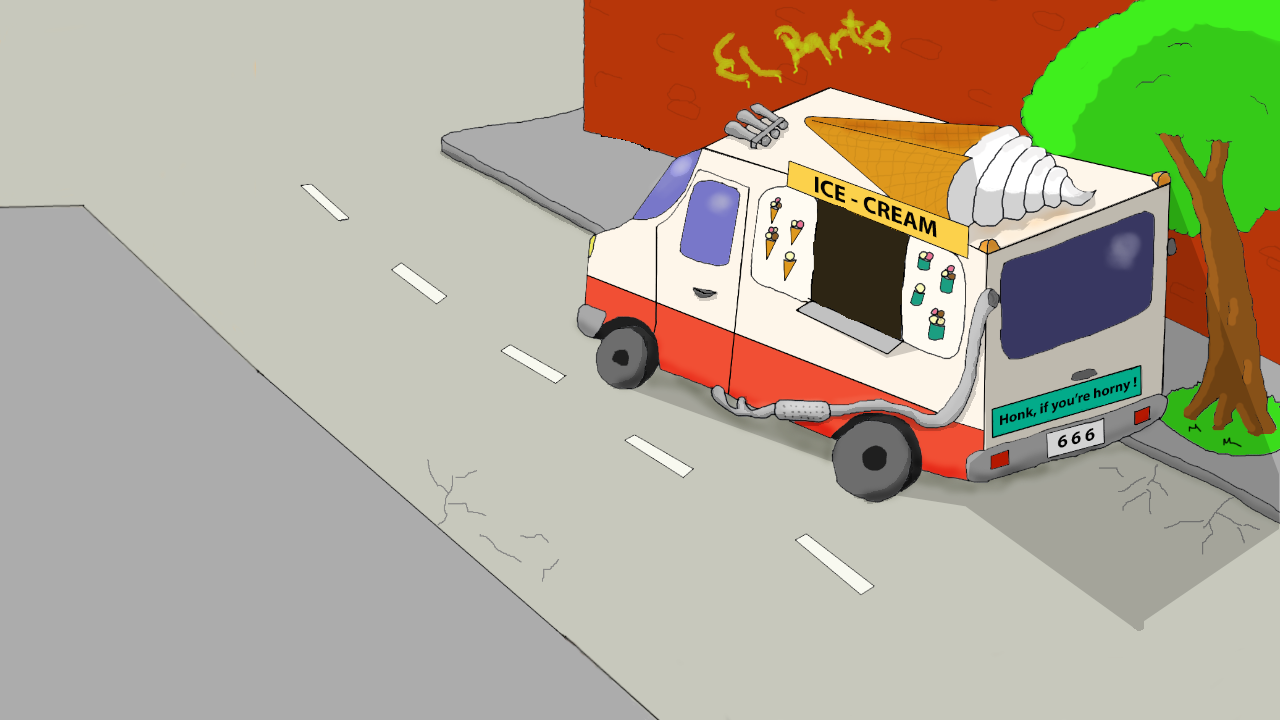
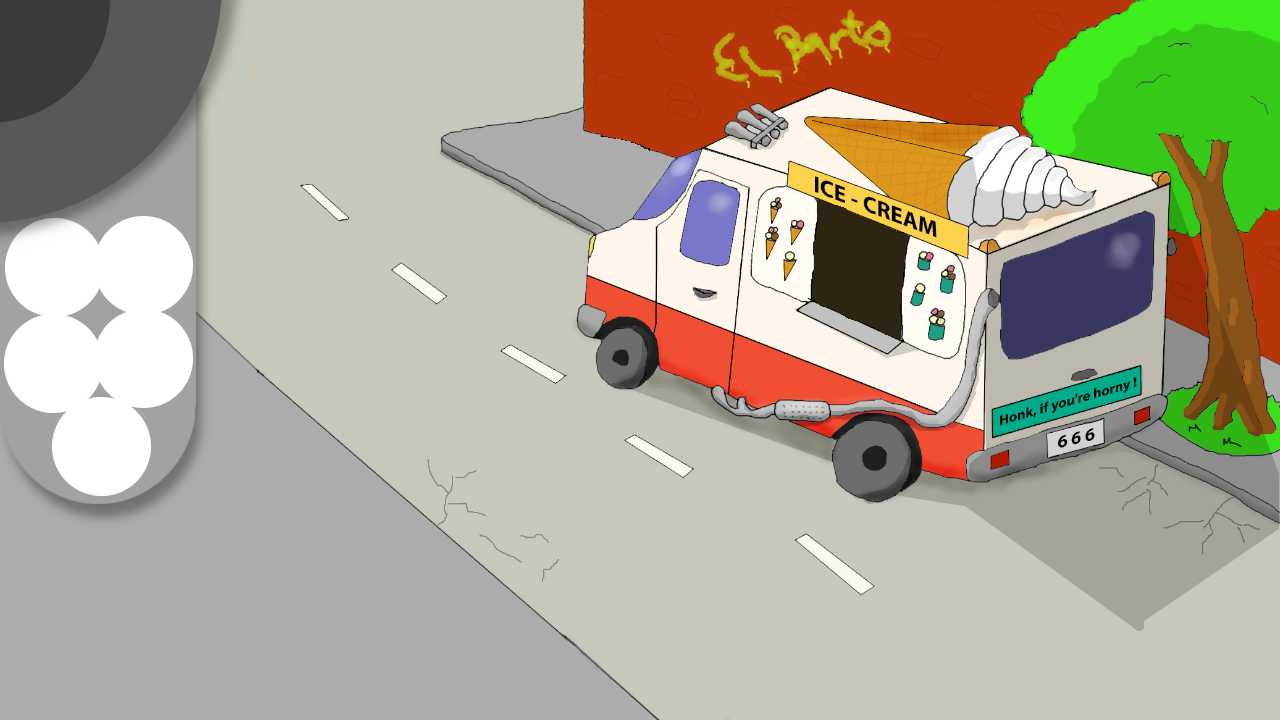
Neue Menüs für Widescreen und Inventar anpassungen. Viele Kleinigkeiten....

Changed region(s): [[0.0, 0.0, 0.1875, 0.7333]]

diff --git a/core/src/main/kotlin/org/wanne/game/screens/AbstractWalkableScreen.kt b/core/src/main/kotlin/org/wanne/game/screens/AbstractWalkableScreen.kt
@@ -100,7 +100,7 @@ abstract class AbstractWalkableScreen(
         lookButton = UiButtonBuilder()
             .withTexture(buttonAtlas.createSprite("Ansehen"))
             .withTexturePressed(buttonAtlas.createSprite("AnsehenPressed"))
-            .withPoint(game.choose(Point(5F, 45F), Point(120F, 630F)))
+            .withPoint(game.choose(Point(5F, 45F), Point(130F, 640F)))
             .withTooltip(TextTooltip(game.choose("ansehen", "look at"), game.currentSkin()))
             .withScale(0.1F, 0.1F)
             .useScaling(!game.classicMode())
@@ -121,7 +121,7 @@ abstract class AbstractWalkableScreen(
         speakButton = UiButtonBuilder()
             .withTexture(buttonAtlas.createSprite("Reden"))
             .withTexturePressed(buttonAtlas.createSprite("RedenPressed"))
-            .withPoint(game.choose(Point(65F, 45F), Point(120F, 530F)))
+            .withPoint(game.choose(Point(65F, 45F), Point(80F, 565F)))
             .withTooltip(TextTooltip(game.choose("ansprechen", "speak to"), game.currentSkin()))
             .useScaling(!game.classicMode())
             .build()
@@ -141,7 +141,7 @@ abstract class AbstractWalkableScreen(
         takeButton = UiButtonBuilder()
             .withTexture(buttonAtlas.createSprite("Nehmen"))
             .withTexturePressed(buttonAtlas.createSprite("NehmenPressed"))
-            .withPoint(game.choose(Point(120F, 45F), Point(30F, 530F)))
+            .withPoint(game.choose(Point(120F, 45F), Point(10F, 520F)))
             .withTooltip(TextTooltip(game.choose("aufnehmen", "take"), game.currentSkin()))
             .useScaling(!game.classicMode())
             .build()
@@ -161,7 +161,7 @@ abstract class AbstractWalkableScreen(
         useButton = UiButtonBuilder()
             .withTexture(buttonAtlas.createSprite("Benutzen"))
             .withTexturePressed(buttonAtlas.createSprite("BenutzenPressed"))
-            .withPoint(game.choose(Point(180F, 45F), Point(30F, 430F)))
+            .withPoint(game.choose(Point(180F, 45F), Point(80F, 565F)))
             .withTooltip(TextTooltip(game.choose("benutzen", "use"), game.currentSkin()))
             .useScaling(!game.classicMode())
             .build()
@@ -181,7 +181,7 @@ abstract class AbstractWalkableScreen(
         combineButton = UiButtonBuilder()
             .withTexture(buttonAtlas.createSprite("kombinieren"))
             .withTexturePressed(buttonAtlas.createSprite("kombinierenPressed"))
-            .withPoint(game.choose(Point(240F, 40F), Point(120F, 430F)))
+            .withPoint(game.choose(Point(240F, 40F), Point(10F, 520F)))
             .withTooltip(TextTooltip(game.choose("kombinieren", "combine"), game.currentSkin()))
             .useScaling(!game.classicMode())
             .build()
@@ -203,7 +203,7 @@ abstract class AbstractWalkableScreen(
             poolAttendantButton = UiButtonBuilder()
                 .withTexture(buttonAtlas.createSprite("Bademeister"))
                 .withTexturePressed(buttonAtlas.createSprite("BademeisterPressed"))
-                .withPoint(game.choose(Point(3F, 707F), Point(30F, 618F)))
+                .withPoint(game.choose(Point(3F, 707F), Point(10F, 620F)))
                 .withTooltip(TextTooltip(game.choose("wechsle zum Bademeister", "change to Pool Attendant"), game.currentSkin()))
                 .setVisible(false)
                 .withScale(0.4F, 0.4F)
@@ -213,7 +213,7 @@ abstract class AbstractWalkableScreen(
             duckButton = UiButtonBuilder()
                 .withTexture(buttonAtlas.createSprite("Ente"))
                 .withTexturePressed(buttonAtlas.createSprite("EntePressed"))
-                .withPoint(game.choose(Point(5F, 705F), Point(32F, 616F)))
+                .withPoint(game.choose(Point(5F, 705F), Point(12F, 618F)))
                 .withTooltip(TextTooltip(game.choose("wechsle zur Ente", "change to Duck"), game.currentSkin()))
                 .useScaling(!game.classicMode())
                 .withScale(0.4F, 0.4F)

diff --git a/core/src/main/kotlin/org/wanne/game/screens/game/RoomScreen.kt b/core/src/main/kotlin/org/wanne/game/screens/game/RoomScreen.kt
@@ -62,11 +62,11 @@ class RoomScreen(
         // Reihenfolge ist wichtig
         val roomItemList: List<GameObject> = listOf(
             game.items.bed, game.items.drBear, game.items.stethoscope, game.items.scalpel,
-            game.items.mario, game.items.bell, game.items.roomWindow, game.items.drawer,
+            game.items.bell, game.items.roomWindow, game.items.drawer,
             game.items.stickers, game.items.exit, game.items.straw, game.items.door,
             game.items.pa2Poster, game.items.brucePoster, game.items.deanPoster,
-            game.items.safe, game.items.rug, game.items.flower, game.items.telephone,
-            game.items.box, game.items.teddy, game.items.milkSucker,
+            game.items.safe, game.items.rug, game.items.mario, game.items.flower, game.items.box,
+            game.items.telephone, game.items.teddy, game.items.milkSucker,
             game.items.pills, game.items.note
         )
         addObjectsToStage(roomItemList)
@@ -109,6 +109,8 @@ class RoomScreen(
 //        game.items.door.isVisible = false
 
         // Wenn wir aus der Kuh Szene zurückkommen, ist die Notiz im Inventar und muss sicher bleiben.
+//        inventory.addGameObjectToInventory(game.items.note, !game.classicMode())
+//        game.items.note.isVisible = true
         if (!inventory.isObjectInInventory(game.items.note)) {
             game.items.note.isVisible = false
         }

diff --git a/core/src/main/kotlin/org/wanne/game/screens/menu/MainMenuScreen.kt b/core/src/main/kotlin/org/wanne/game/screens/menu/MainMenuScreen.kt
@@ -94,11 +94,16 @@ class MainMenuScreen(
                     event: ChangeEvent?,
                     actor: Actor?,
                 ) {
-                    if (game.arrivedOutside) {
-                        game.screen = game.outsideScreen
-                    } else {
+                    if (game.gameEnded) {
                         game.screen = game.roomScreen
+                    } else {
+                        if (game.arrivedOutside) {
+                            game.screen = game.outsideScreen
+                        } else {
+                            game.screen = game.roomScreen
+                        }
                     }
+
                     dispose()
                 }
             },
@@ -164,7 +169,8 @@ class MainMenuScreen(
         val exitButton = UiButtonBuilder()
             .withTexture(buttonAtlas.createSprite("exit"))
             .withTexturePressed(buttonAtlas.createSprite("exitPressed"))
-            .withPoint(Point(1235F, 655F))
+            .withPoint(Point(1225F, 645F))
+            .useScaling(true)
             .build()
         exitButton.addListener(
             object : ChangeListener() {

diff --git a/core/src/main/kotlin/org/wanne/game/screens/game/CowPhoneScreen.kt b/core/src/main/kotlin/org/wanne/game/screens/game/CowPhoneScreen.kt
@@ -27,13 +27,13 @@ class CowPhoneScreen(
     private val musicBackground: Music = game.am.get("soundsOriginal/Background/Kinderzimmer.mp3")
 
     // Animation
-    private lateinit var cowCallAnimation: CowCallAnimation
+    private val cowCallAnimation: CowCallAnimation  = CowCallAnimation(am = game.am)
 
     // Dialog System
     private val dialogBoard = DialogBoard(game = game)
 
     override fun show() {
-        createAnimation()
+        cowCallAnimation.updatePosition(game.choose(Point(0F, 0F), Point(127F, 0F)))
 
         Gdx.graphics.setWindowedMode(game.config.getResolutionX(), game.config.getResolutionY())
         viewport = FitViewport(game.config.getResolutionX().toFloat(), game.config.getResolutionY().toFloat())
@@ -53,10 +53,6 @@ class CowPhoneScreen(
 
         // Initialen Dialog starten
         stage.currentAction.action(dialogBoard)
-    }
-
-    private fun createAnimation() {
-        cowCallAnimation = CowCallAnimation(game.choose(Point(0F, 0F), Point(127F, 0F)), am = game.am)
     }
 
     override fun render(delta: Float) {

diff --git a/core/src/main/kotlin/org/wanne/game/model/Inventory.kt b/core/src/main/kotlin/org/wanne/game/model/Inventory.kt
@@ -25,11 +25,11 @@ class Inventory private constructor() {
 
     private val positionsWide =
         arrayOf(
-            Point(30F, 305F), // 1
-            Point(30F, 180F), // 2
-            Point(30F, 55F),  // 3
-            Point(120F, 305F), // 4
-            Point(120F, 180F), // 5
+            Point(16F, 419F), // 1
+            Point(110F, 419F), // 2
+            Point(16F, 327F),  // 3
+            Point(110F, 329F), // 4
+            Point(62F, 243F), // 5
         )
 
     fun addGameObjectToInventory(gameObject: GameObject, isWidescreen: Boolean) {
@@ -71,7 +71,10 @@ class Inventory private constructor() {
     }
 
     fun clearInventory() {
-        items.forEach { item -> removeGameObject(item, false) }
+        items.forEach { item ->
+            item.isVisible = false
+            item.isInInventory = false
+        }
         items.clear()
     }
 }

diff --git a/core/src/main/kotlin/org/wanne/game/screens/LoadingScreen.kt b/core/src/main/kotlin/org/wanne/game/screens/LoadingScreen.kt
@@ -69,9 +69,9 @@ class LoadingScreen (
                         percent = 1F
 
                         if (!initialLoadingDone) {
+                            loadingLabel.setText("loading complete (${percent*100}%)")
                             game.cowPhoneScreen = CowPhoneScreen(game)
                             game.initializeItemHolder()
-                            loadingLabel.setText("loading complete (${percent*100}%)")
 
                             game.setScreen(game.mainMenuScreen)
                             initialLoadingDone = true

diff --git a/core/src/main/kotlin/org/wanne/game/model/animation/CowCallAnimation.kt b/core/src/main/kotlin/org/wanne/game/model/animation/CowCallAnimation.kt
@@ -8,7 +8,7 @@ import org.wanne.game.model.Point
 import org.wanne.utils.GifDecoder
 
 class CowCallAnimation(
-    point: Point,
+    point: Point = Point(0F, 0F),
     visible: Boolean = true,
     am: AssetsManager
 ): org.wanne.game.model.animation.Animation(point.x, point.y, visible, am) {
@@ -25,5 +25,10 @@ class CowCallAnimation(
         }
 
         return texture
+    }
+
+    fun updatePosition(newPosition: Point) {
+        posX = newPosition.x
+        posY = newPosition.y
     }
 }

diff --git a/core/src/main/kotlin/org/wanne/game/screens/game/PuzzleScreen.kt b/core/src/main/kotlin/org/wanne/game/screens/game/PuzzleScreen.kt
@@ -93,6 +93,7 @@ class PuzzleScreen(
             .withTexturePressed(buttonAtlas.createSprite("exitPressed"))
             .withPoint(game.choose(Point(980F, 705F), Point(1200F, 640F)))
             .withTooltip(TextTooltip(game.choose("bring mich zurück", "bring me back"), game.currentSkin()))
+            .useScaling(!game.classicMode())
             .build()
         exitButton.addListener(
             object : ChangeListener() {

diff --git a/lwjgl3/src/main/kotlin/org/wanne/lwjgl3/Lwjgl3Launcher.kt b/lwjgl3/src/main/kotlin/org/wanne/lwjgl3/Lwjgl3Launcher.kt
@@ -17,7 +17,7 @@ fun main() {
             setTitle("Die Badewannen-Verschwörung GDX")
 //        setWindowIcon(*(arrayOf(128, 64, 32, 16).map { "libgdx$it.png" }.toTypedArray()))
             setForegroundFPS(60)
-            setResizable(false)
+//            setResizable(false)
 
             //val primaryMode: DisplayMode = Lwjgl3ApplicationConfiguration.getDisplayMode()
             //setFullscreenMode(primaryMode)

diff --git a/core/src/main/kotlin/org/wanne/game/model/animation/Animation.kt b/core/src/main/kotlin/org/wanne/game/model/animation/Animation.kt
@@ -4,7 +4,7 @@ import com.badlogic.gdx.graphics.g2d.Batch
 import com.badlogic.gdx.graphics.g2d.TextureRegion
 import org.wanne.game.AssetsManager
 
-abstract class Animation(val posX: Float, val posY: Float, var visible: Boolean, val am: AssetsManager) {
+abstract class Animation(var posX: Float, var posY: Float, var visible: Boolean, val am: AssetsManager) {
 
     private var elapsedTime: Float = 0F
 

diff --git a/core/src/main/kotlin/org/wanne/game/WanneGame.kt b/core/src/main/kotlin/org/wanne/game/WanneGame.kt
@@ -61,6 +61,7 @@ class WanneGame(val android: Boolean): Game() {
     lateinit var server: Server
 
     var startedGame = false
+    var gameEnded = false
 
     var isSingleplayer = true
     var puzzleSolved = false

diff --git a/core/src/main/kotlin/org/wanne/game/model/objects/Ice.kt b/core/src/main/kotlin/org/wanne/game/model/objects/Ice.kt
@@ -47,6 +47,7 @@ class Ice(
         inventory.clearInventory()
         game.arrivedOutside
         game.startedGame = false
+        game.gameEnded = true
         game.screen = game.mainMenuScreen
     }
 
